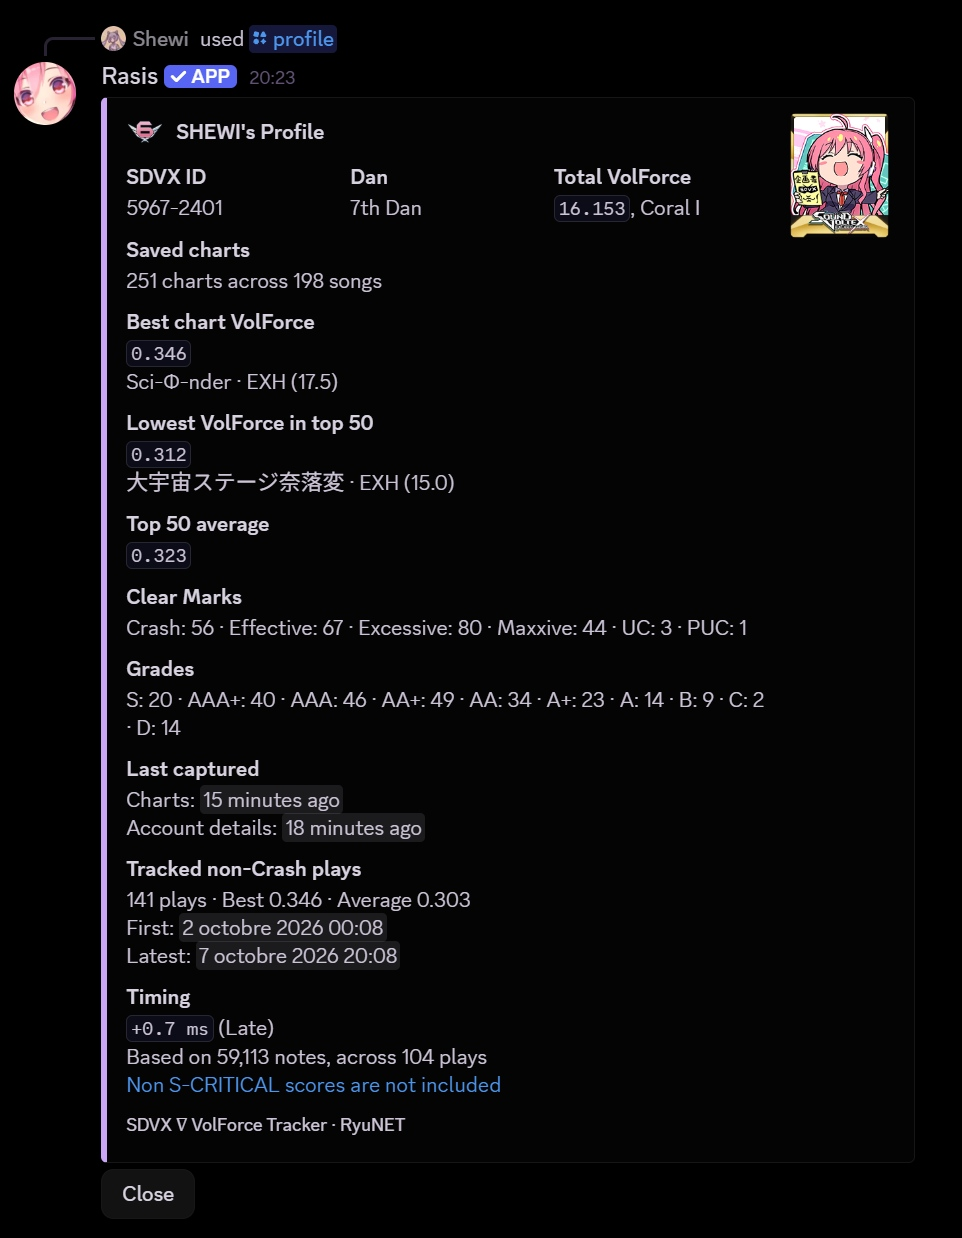
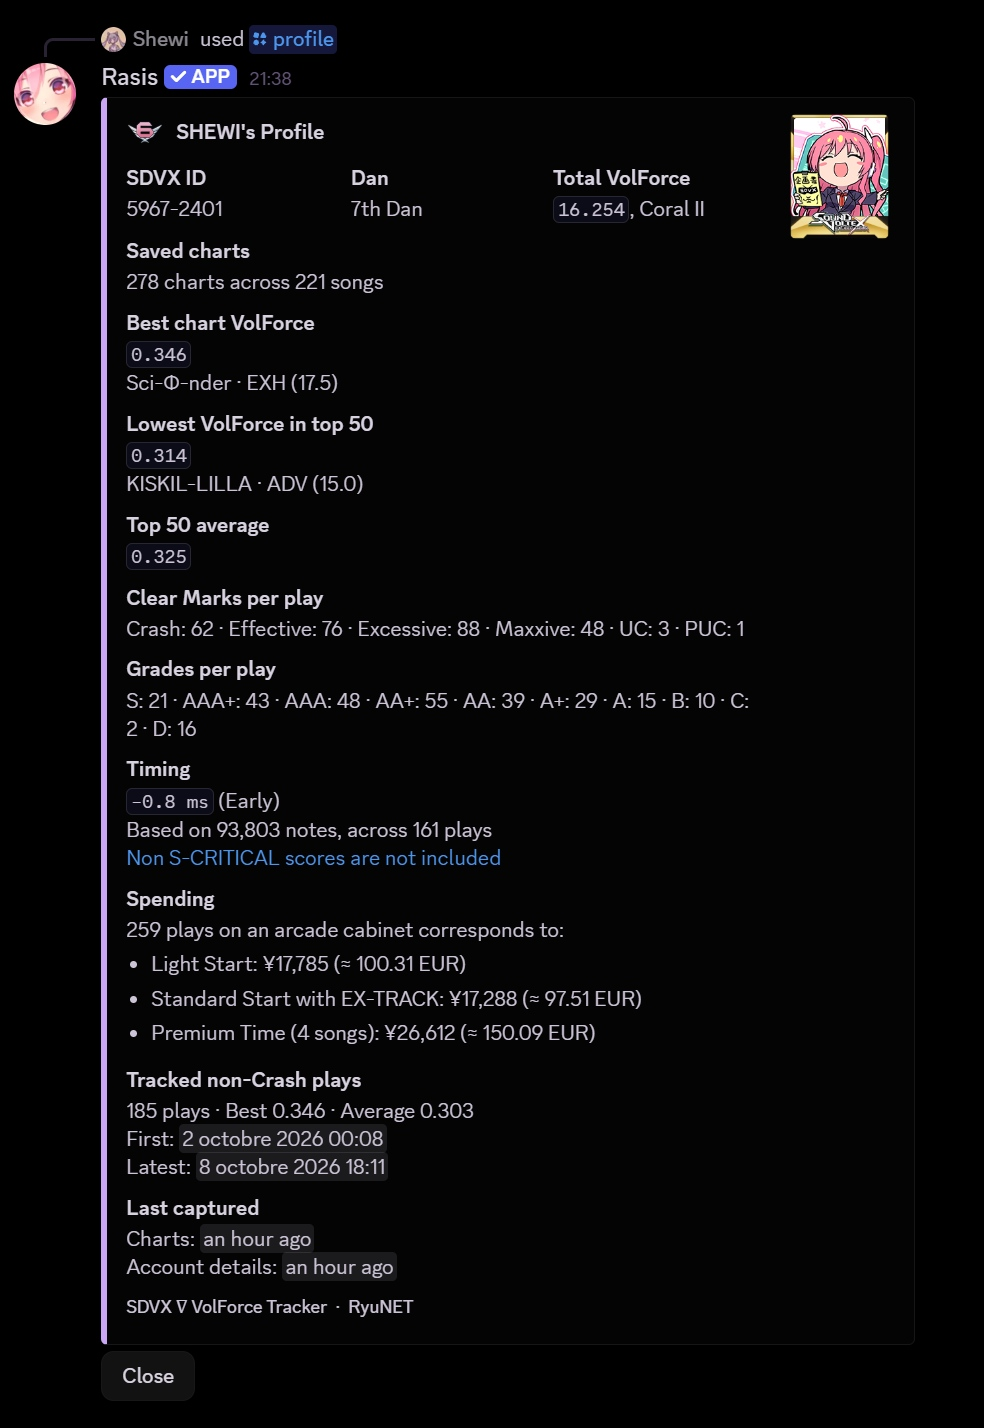
Add spending estimates

diff --git a/tracker/bot/profile.py b/tracker/bot/profile.py
@@ -15,11 +15,13 @@ from config import (
     FOOTER,
     MUSIC_DB_PATH,
     SCORE_LOG_PATH,
+    SPENDING_CURRENCY,
     TOTAL_VOLFORCE_CACHE_PATH,
     USERNAME,
 )
 from tracker.music import MusicCatalog
 from tracker.performance_chart import load_play_history
+from tracker.spending import START_PRICES, get_jpy_rate, load_play_count
 from tracker.timing import load_timing_summary
 from tracker.total_volforce import load_total_volforce
 
@@ -70,6 +72,8 @@ def build_profile_embed(
     timing: dict | None = None,
     *,
     music: MusicCatalog,
+    play_count: int | None = None,
+    exchange_rate: dict | None = None,
 ) -> discord.Embed:
     player = snapshot["player"] if snapshot else {}
     name = discord.utils.escape_markdown(str(player.get("name") or USERNAME))[:100]
@@ -148,7 +152,7 @@ def build_profile_embed(
                 6: "PUC",
             }
             embed.add_field(
-                name="Clear Marks",
+                name="Clear Marks per play",
                 value=" · ".join(
                     f"{clear_names[clear]}: {count:,}"
                     for clear, count in sorted(clears.items())
@@ -159,7 +163,7 @@ def build_profile_embed(
                 get_grade_name(record["score"]) for record in records.values()
             )
             embed.add_field(
-                name="Grades",
+                name="Grades per play",
                 value=" · ".join(
                     f"{grade}: {grades[grade]:,}"
                     for grade in (
@@ -178,44 +182,12 @@ def build_profile_embed(
                 ),
                 inline=False,
             )
-        updated = int(snapshot["updated_at"].timestamp())
-        captured = f"Charts: <t:{updated}:R>"
-        if snapshot["player_updated_at"]:
-            try:
-                timestamp = datetime.fromisoformat(
-                    snapshot["player_updated_at"].replace("Z", "+00:00")
-                )
-                if timestamp.tzinfo is not None:
-                    captured += f"\nAccount details: <t:{int(timestamp.timestamp())}:R>"
-            except (ValueError, TypeError, AttributeError):
-                pass
-        embed.add_field(name="Last captured", value=captured, inline=False)
-        if not player:
-            embed.description = (
-                "Log into the game with your card to capture account details."
-            )
     else:
         embed.description = (
             "Account details and Total VolForce are unavailable. Log into the game"
             " with your card to capture your saved profile."
         )
-    if history:
-        values = [play["play_vf"] for play in history]
-        first, last = (
-            int(history[index]["timestamp"].timestamp()) for index in (0, -1)
-        )
-        embed.add_field(
-            name="Tracked non-Crash plays",
-            value=f"{len(history):,} plays · Best {max(values):.3f} · Average {math.fsum(values) / len(values):.3f}"
-            f"\nFirst: <t:{first}:f>\nLatest: <t:{last}:f>",
-            inline=False,
-        )
-    else:
-        embed.add_field(
-            name="Tracked non-Crash plays",
-            value="No local history available.",
-            inline=False,
-        )
+
     timing_note = (
         "[Non S-CRITICAL scores are not included]"
         "(https://github.com/Shewiiii/SDVX7-VolForce-Tracker#limitations)"
@@ -235,6 +207,56 @@ def build_profile_embed(
             value=f"No valid S-CRITICAL timing data saved yet.\n{timing_note}",
             inline=False,
         )
+
+    spending = "Local play count unavailable."
+    if play_count is not None:
+        currency = SPENDING_CURRENCY.strip().upper()
+        lines = [f"{play_count:,} plays on an arcade cabinet corresponds to:"]
+        for label, songs, price in START_PRICES:
+            yen = play_count / songs * price
+            amount = f"¥{yen:,.0f}"
+            if exchange_rate is not None and currency != "JPY":
+                amount += f" (≈ {yen * exchange_rate['rate']:,.2f} {currency})"
+            lines.append(f"- {label}: {amount}")
+        spending = "\n".join(lines)
+    embed.add_field(name="Spending", value=spending, inline=False)
+
+    if history:
+        values = [play["play_vf"] for play in history]
+        first, last = (
+            int(history[index]["timestamp"].timestamp()) for index in (0, -1)
+        )
+        embed.add_field(
+            name="Tracked non-Crash plays",
+            value=f"{len(history):,} plays · Best {max(values):.3f} · Average {math.fsum(values) / len(values):.3f}"
+            f"\nFirst: <t:{first}:f>\nLatest: <t:{last}:f>",
+            inline=False,
+        )
+    else:
+        embed.add_field(
+            name="Tracked non-Crash plays",
+            value="No local history available.",
+            inline=False,
+        )
+
+    if snapshot:
+        updated = int(snapshot["updated_at"].timestamp())
+        captured = f"Charts: <t:{updated}:R>"
+        if snapshot["player_updated_at"]:
+            try:
+                timestamp = datetime.fromisoformat(
+                    snapshot["player_updated_at"].replace("Z", "+00:00")
+                )
+                if timestamp.tzinfo is not None:
+                    captured += f"\nAccount details: <t:{int(timestamp.timestamp())}:R>"
+            except (ValueError, TypeError, AttributeError):
+                pass
+        embed.add_field(name="Last captured", value=captured, inline=False)
+        if not player:
+            embed.description = (
+                "Log into the game with your card to capture account details."
+            )
+
     embed.set_footer(text=f"{FOOTER}  ·  RyuNET")
     return embed
 
@@ -271,6 +293,7 @@ class Profile(discord.Cog):
         except (OSError, ValueError) as error:
             logger.warning("Could not load profile's local history: %s", error)
             history = []
+
         try:
             timing = await asyncio.to_thread(
                 load_timing_summary, SCORE_LOG_PATH, self.state.user_id
@@ -278,7 +301,29 @@ class Profile(discord.Cog):
         except (OSError, ValueError) as error:
             logger.warning("Could not load timing history: %s", error)
             timing = None
-        embed = build_profile_embed(snapshot, history, timing, music=music)
+
+        try:
+            play_count = await asyncio.to_thread(
+                load_play_count, SCORE_LOG_PATH, self.state.user_id
+            )
+        except OSError as error:
+            logger.warning("Could not count profile's local plays: %s", error)
+            play_count = None
+
+        exchange_rate = (
+            await asyncio.to_thread(get_jpy_rate, SPENDING_CURRENCY)
+            if play_count is not None
+            else None
+        )
+
+        embed = build_profile_embed(
+            snapshot,
+            history,
+            timing,
+            music=music,
+            play_count=play_count,
+            exchange_rate=exchange_rate,
+        )
         appeal_id = snapshot["player"].get("appeal_id") if snapshot else None
         card_bytes = await asyncio.to_thread(find_local_appeal_card, appeal_id)
         icon_bytes = await asyncio.to_thread(
@@ -286,9 +331,11 @@ class Profile(discord.Cog):
         )
         files = []
         attachment = {}
+
         if card_bytes:
             embed.set_thumbnail(url="attachment://appeal_card.png")
             files.append(discord.File(BytesIO(card_bytes), filename="appeal_card.png"))
+
         if icon_bytes:
             embed.set_author(
                 name=embed.author.name, icon_url="attachment://volforce_class.png"
@@ -296,8 +343,10 @@ class Profile(discord.Cog):
             files.append(
                 discord.File(BytesIO(icon_bytes), filename="volforce_class.png")
             )
+
         if files:
             attachment["files"] = files
+
         await ctx.respond(
             embed=embed,
             allowed_mentions=discord.AllowedMentions.none(),

diff --git a/tracker/spending.py b/tracker/spending.py
@@ -1,0 +1,68 @@
+import json
+import logging
+import math
+import re
+import urllib.request
+from datetime import datetime, timezone
+from functools import lru_cache
+from pathlib import Path
+
+logger = logging.getLogger(__name__)
+
+START_PRICES = (
+    ("Light Start", 3, 206),
+    ("Standard Start with EX-TRACK", 4, 267),
+    ("Premium Time (4 songs)", 4, 411),
+)
+
+
+def load_play_count(path: str | Path, user_id: int) -> int:
+    """Count local attempts, including crashes and repeated charts."""
+    count = 0
+    with open(path, encoding="utf-8") as stream:
+        for line in stream:
+            try:
+                record = json.loads(line)
+                if (
+                    isinstance(record, dict)
+                    and int(record.get("user_id", user_id)) == user_id
+                ):
+                    count += 1
+            except (ValueError, TypeError, OverflowError):
+                continue
+    return count
+
+
+@lru_cache(maxsize=8)
+def _fetch_jpy_rate(currency: str, day: str) -> dict: # Day for cache
+    request = urllib.request.Request(
+        f"https://api.frankfurter.dev/v2/rate/jpy/{currency.lower()}",
+        headers={"User-Agent": "SDVX-VolForce-Tracker", "Accept": "application/json"},
+    )
+    with urllib.request.urlopen(request, timeout=5) as response:
+        data = json.load(response)
+    rate = float(data["rate"])
+    if (
+        data["base"] != "JPY"
+        or data["quote"] != currency
+        or not math.isfinite(rate)
+        or rate <= 0
+    ):
+        raise ValueError("Invalid JPY exchange rate")
+    return {"rate": rate, "date": data["date"]}
+
+
+def get_jpy_rate(currency: str) -> dict | None:
+    """Fetch a daily reference rate without an API key; keep yen on failure."""
+    currency = currency.strip().upper()
+    if currency == "JPY":
+        return {"rate": 1.0, "date": None}
+    try:
+        if not re.fullmatch(r"[A-Z]{3}", currency):
+            raise ValueError("Expected a three-letter ISO currency code")
+        return _fetch_jpy_rate(currency, datetime.now(timezone.utc).date().isoformat())
+    except (OSError, ValueError, TypeError, KeyError) as error:
+        logger.warning(
+            "Could not convert spending estimates to %s: %s", currency, error
+        )
+        return None

diff --git a/tracker/setup.py b/tracker/setup.py
@@ -163,7 +163,7 @@ def prompt(label: str, default: str = "", *, show_default: bool = True) -> str:
 def configure() -> None:
     from dotenv import dotenv_values, set_key
 
-    from config import USERNAME
+    from config import SPENDING_CURRENCY, USERNAME
 
     env_path = REPO_ROOT / ".env"
     existing = dotenv_values(env_path)
@@ -184,11 +184,22 @@ def configure() -> None:
         print("Enter the numeric user ID, not your username.")
         user_id = ""
     username = prompt("Display name for stats", USERNAME)
+    currency = existing.get("TRACKER_CURRENCY") or SPENDING_CURRENCY
+    while True:
+        currency = prompt(
+            "Currency for spending estimates, in ISO format, for example EUR, USD, AUD, CNY, KRW.",
+            currency,
+        ).strip().upper()
+        if currency.isascii() and currency.isalpha() and len(currency) == 3:
+            break
+        print("Enter a three-letter currency code.")
+        currency = ""
 
     for key, value in {
         "BOT_TOKEN": token,
         "USER_ID": user_id,
         "TRACKER_USERNAME": username,
+        "TRACKER_CURRENCY": currency,
     }.items():
         set_key(env_path, key, value, quote_mode="always")
     print("Configuration saved.")

diff --git a/config.py b/config.py
@@ -17,6 +17,7 @@ PULLING_RATE = 1
 
 USERNAME = os.getenv("TRACKER_USERNAME") or "Shewi"
 FOOTER = "SDVX ∇ VolForce Tracker"
+SPENDING_CURRENCY = (os.getenv("TRACKER_CURRENCY") or "USD").strip().upper()
 
 DIFF_NAMES = {
     0: "NOV",

diff --git a/README.md b/README.md
@@ -13,6 +13,9 @@ The script observes the game's e-amusement result requests through a local proxy
 <p>
 	<img src="assets/img/profile.jpg" alt="Profile embed" width="700">
 </p>
+
+Currency convertion can be changed during setup and in `config.py`.
+
 <p>
 	<img src="assets/img/top-plays.jpg" alt="Top Plays embed" width="700">
 </p>
